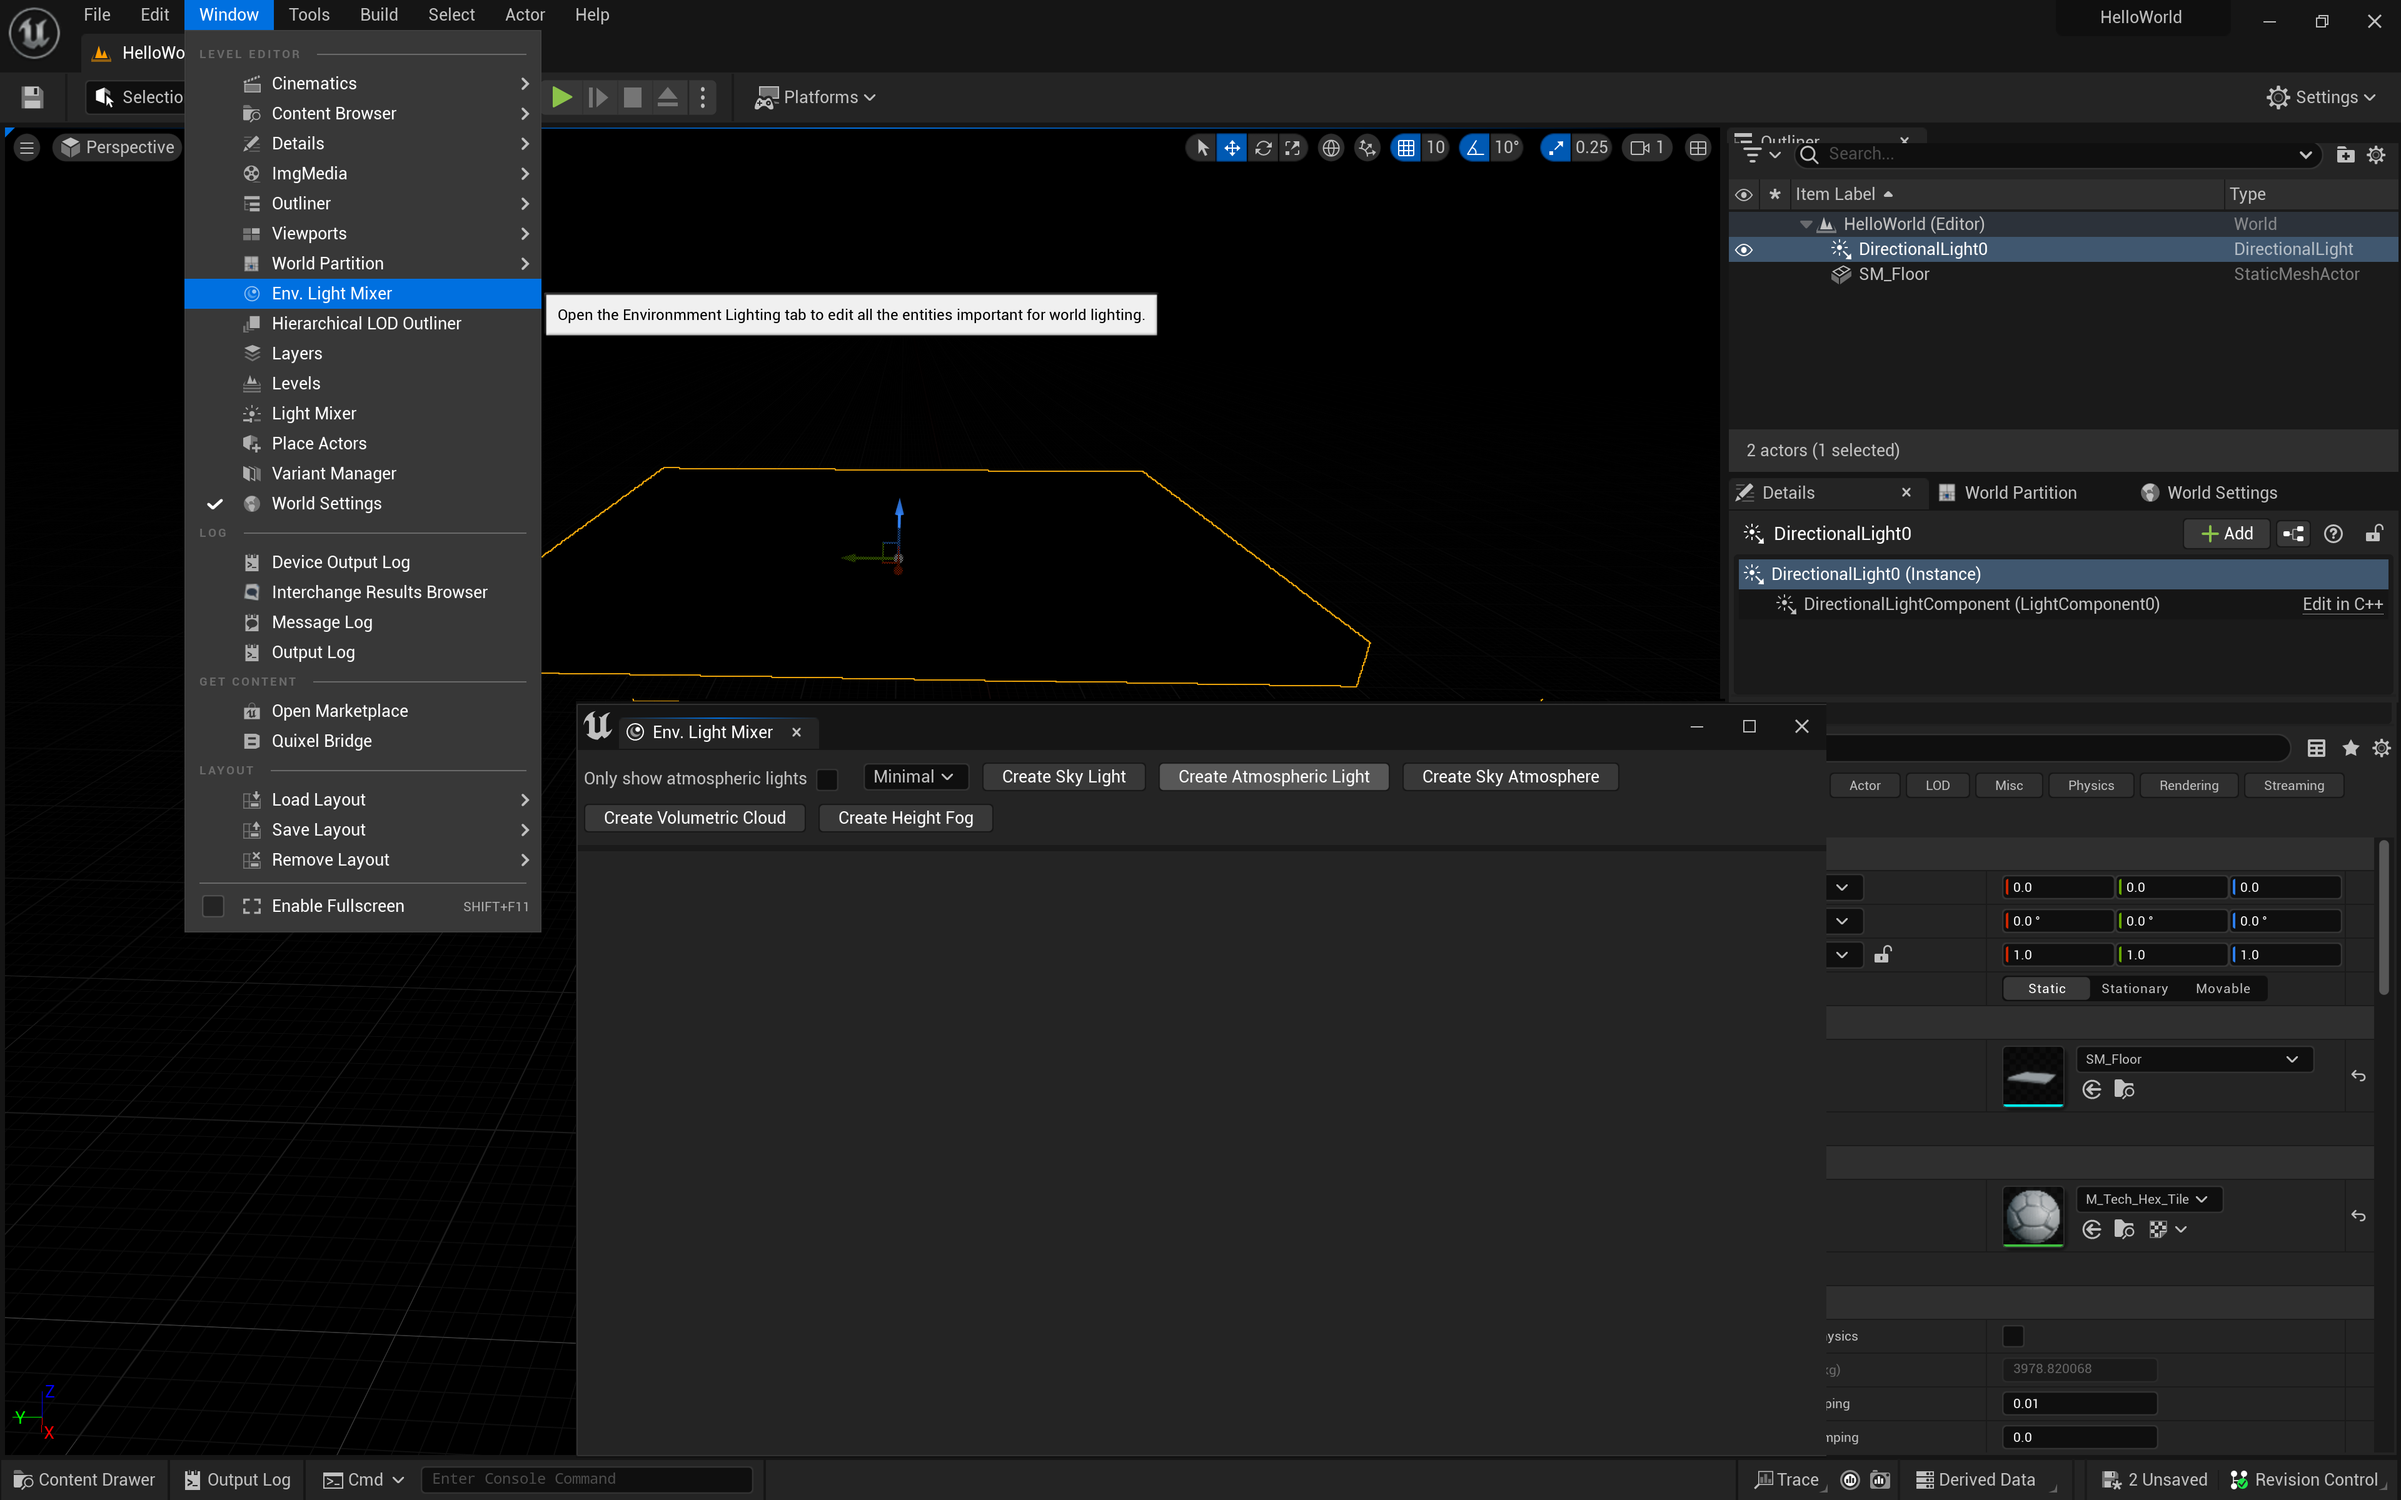
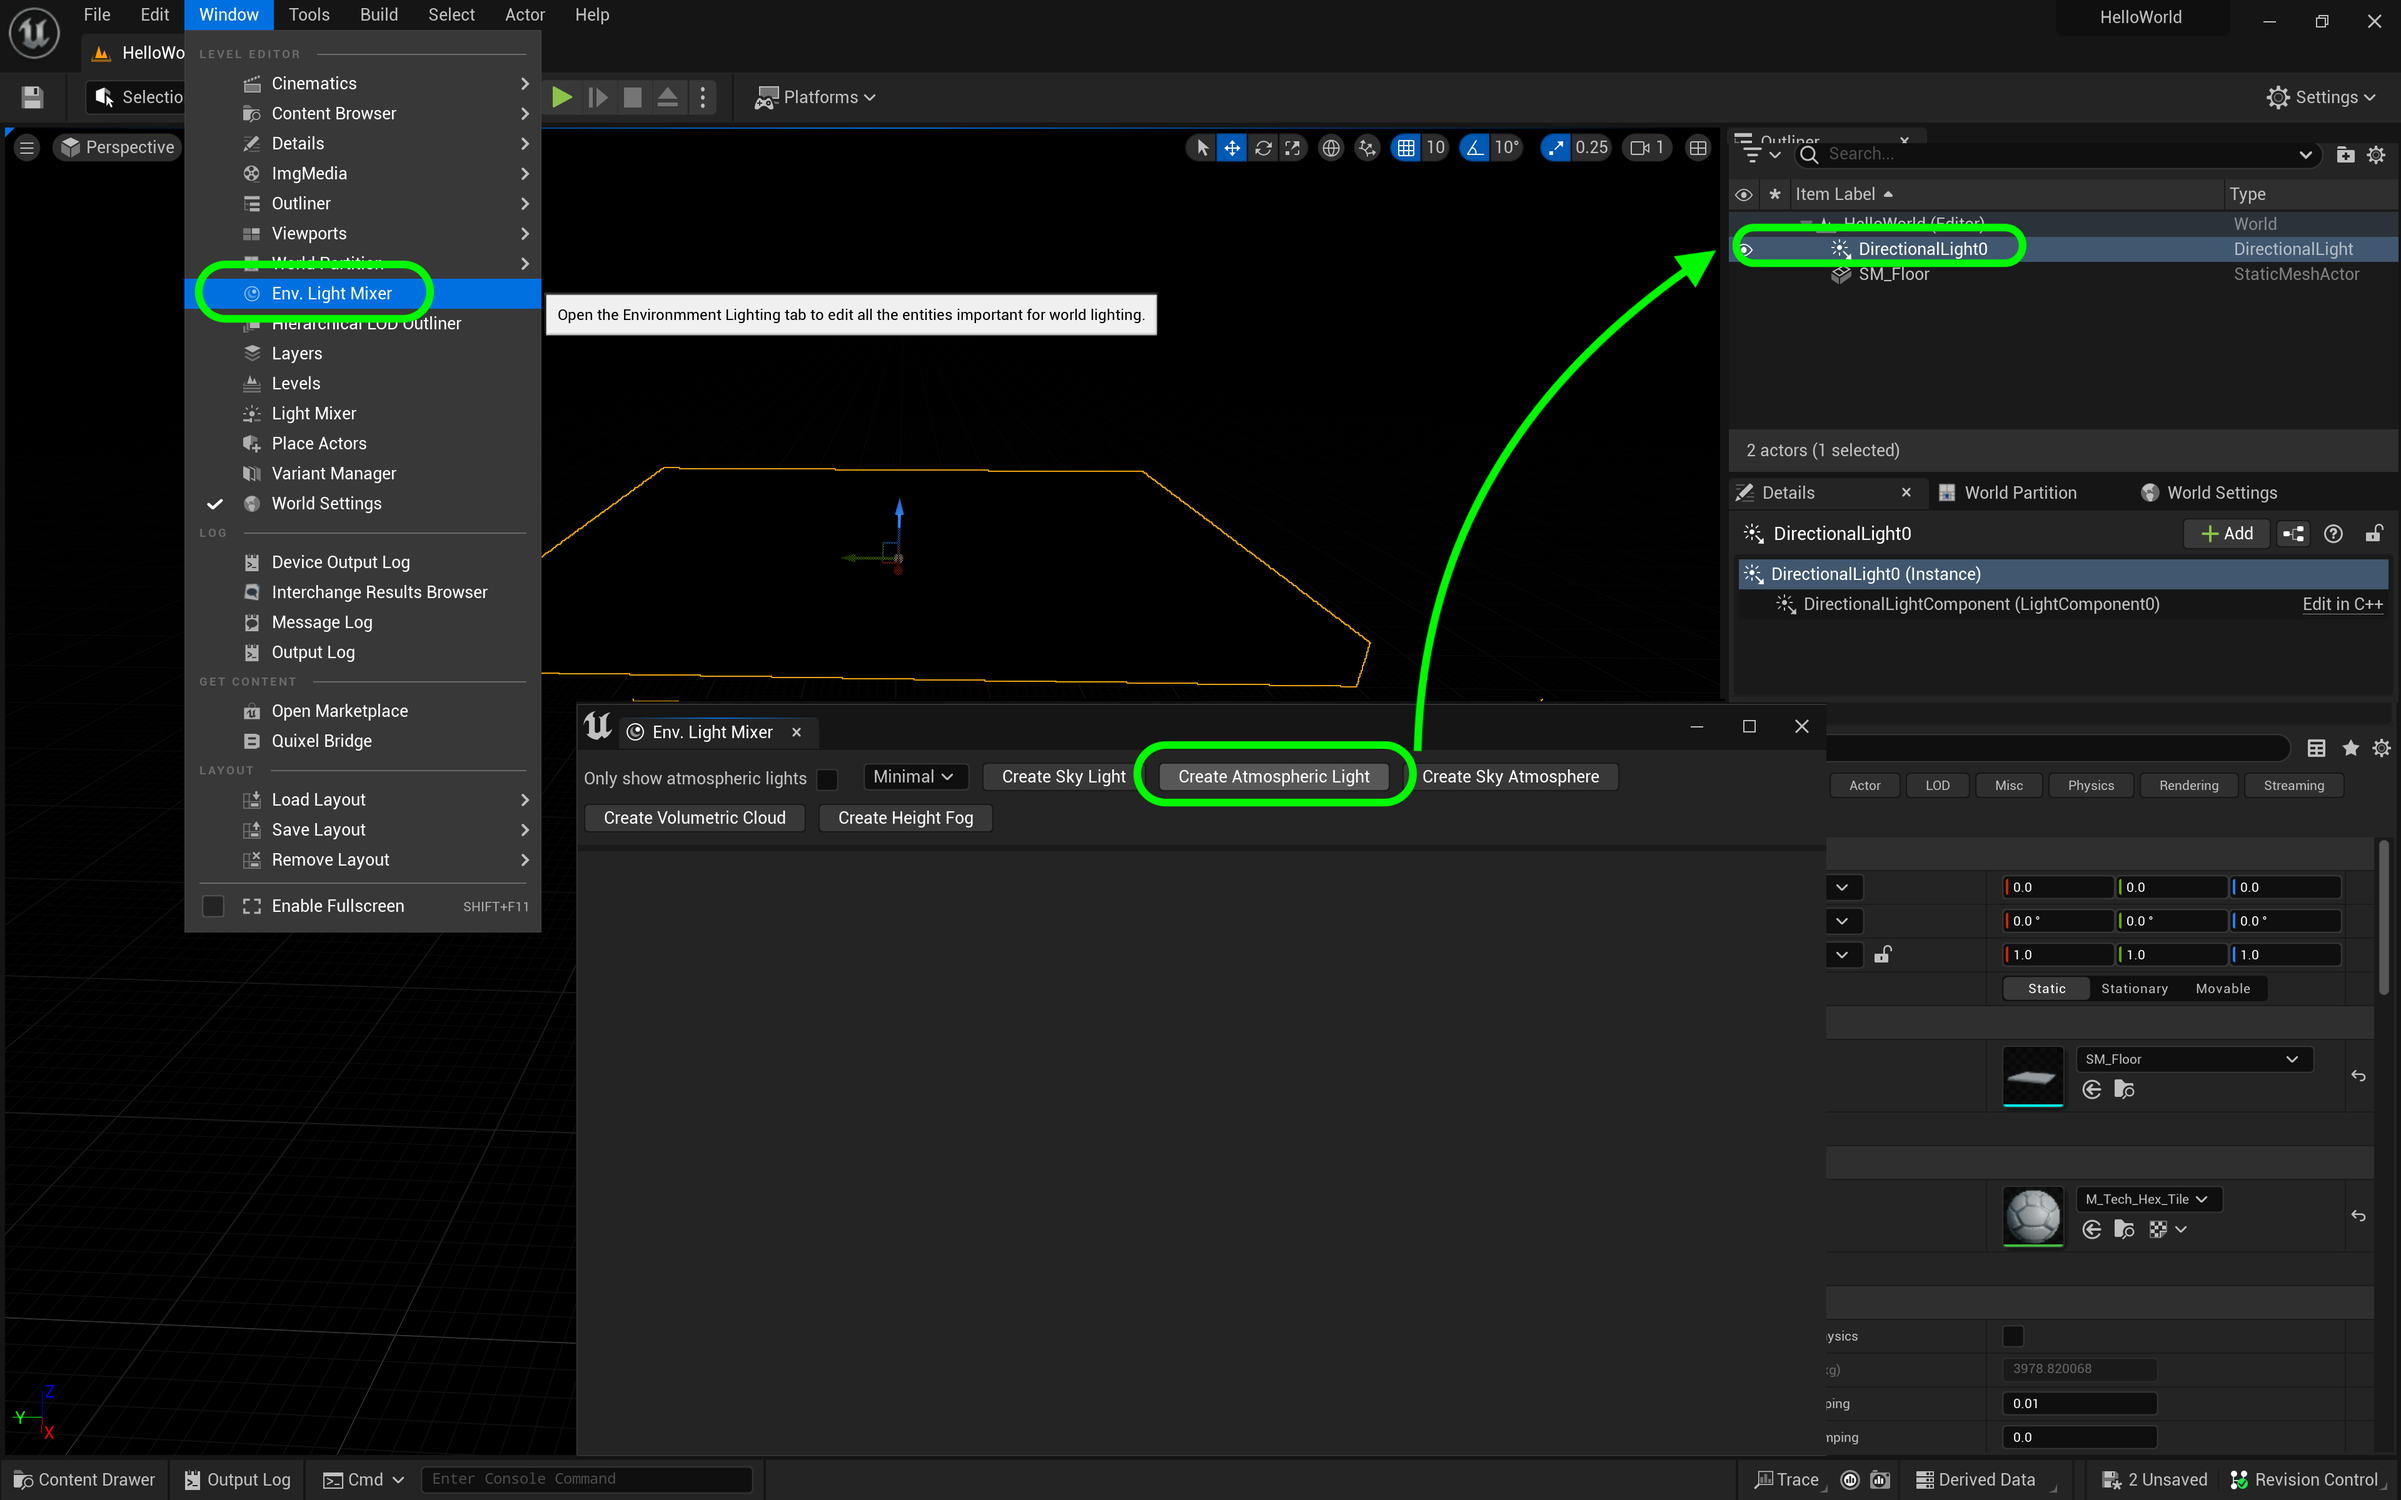
Update to Unreal 5.2

diff --git a/floor-level/README.md b/floor-level/README.md
@@ -52,7 +52,7 @@ https://user-images.githubusercontent.com/5504953/172620693-5a0f5f9e-9879-4601-8
 
 ##### `Step 5.`\|`UE5HW`| :small_orange_diamond:
 
-Now we need to add a light.  This will be an outdoor scene so lets start with the **Sun**.  This is in game terms a light with no fall off so it runs for infinity.
+Now we need to add a light.  This will be an outdoor scene so lets start with the **Sun**.  This is in game terms a light with no fall off so it runs for infinity. In **Unreal** we have a special panel that makes this very quick to do.  Go to **Window | Env Light Mixer** to bring up our light mixer.  Add a **Create Atmospheric Light**.  This will add a directional light to the level.
 
 >The Directional Light simulates light that is being emitted from a source that is infinitely far away. This means that all shadows cast by this light will be parallel, making this the ideal choice for simulating sunlight - [UE5 Manual](https://docs.unrealengine.com/5.0/en-US/directional-lights-in-unreal-engine/)
 
